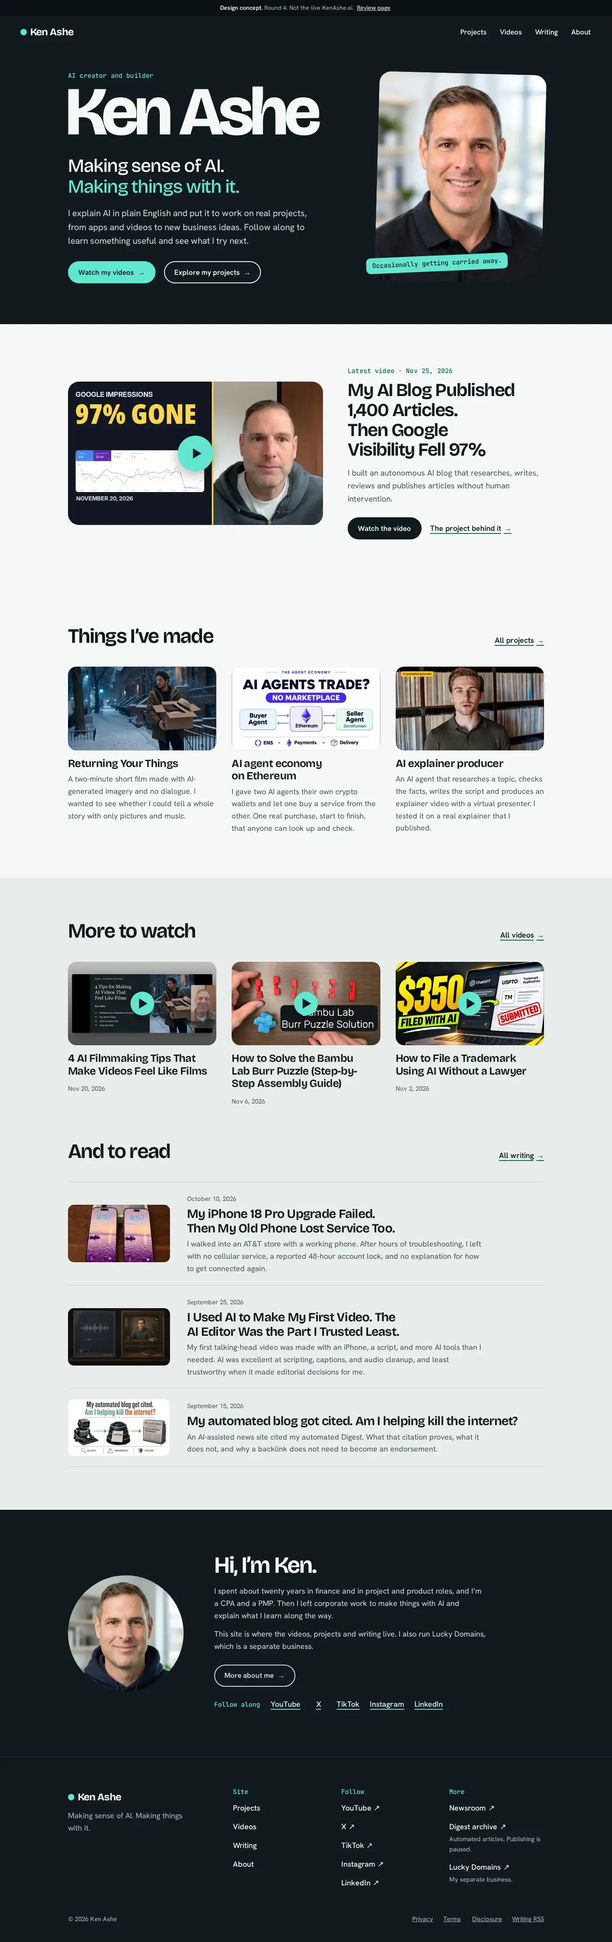
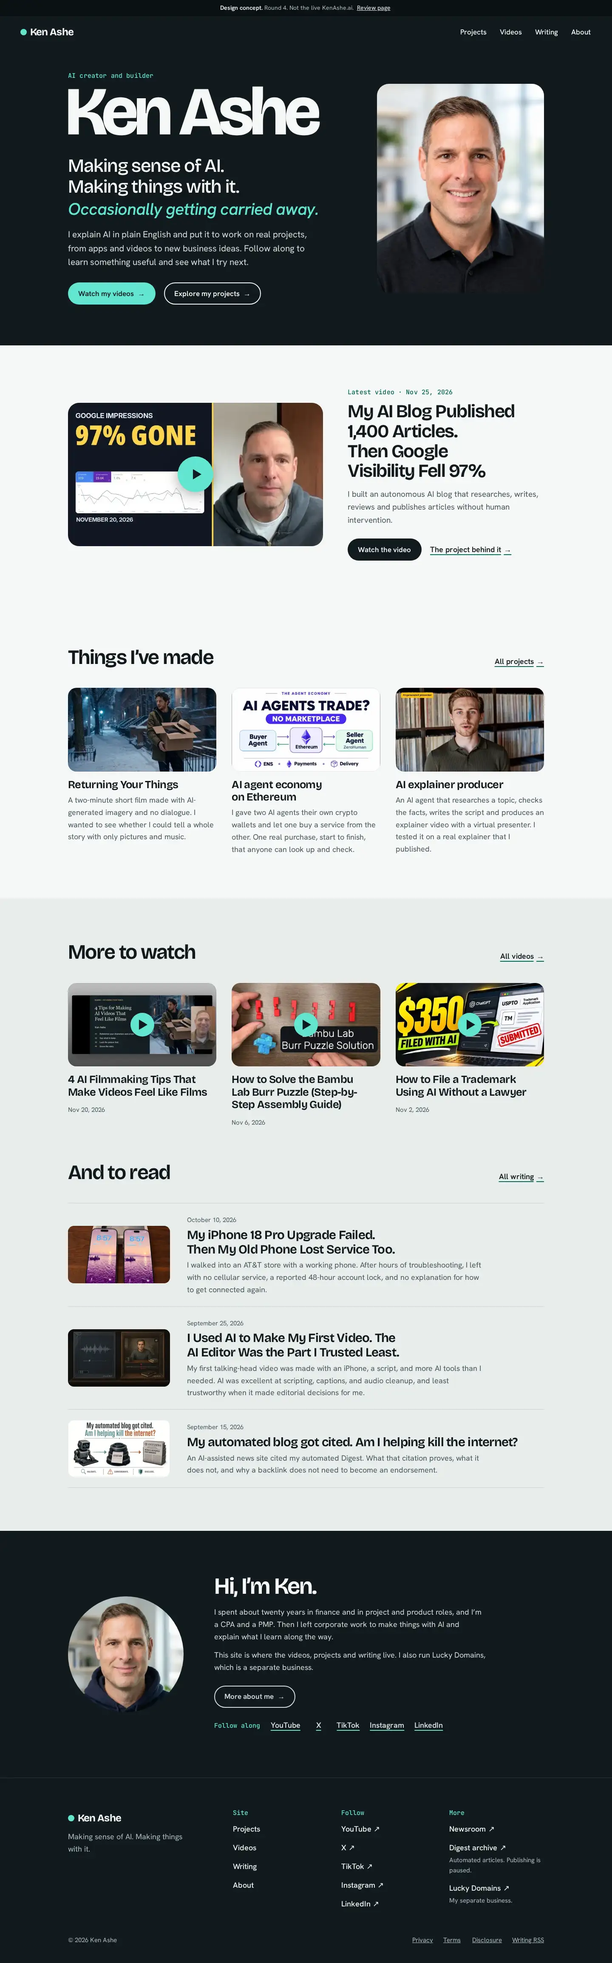
Round 4: bring the aside into the homepage headline

diff --git a/round-4/index.html b/round-4/index.html
@@ -32,10 +32,12 @@
 <figure><img src="review/screens/home-tablet.webp" alt="Homepage on a tablet" width="820" height="1180" loading="lazy"><figcaption>Tablet, 820 pixels wide (Chromium)</figcaption></figure></div>
 <div id="handoff"><p>A new direction for KenAshe.ai, built as a working prototype in <code>round-4/</code>. It is a design concept: it is not the live site, production was only read, and Rounds 1 to 3 are unchanged in the same repository.</p>
 <h3>The design in brief</h3>
-<ul><li><strong>Your name is the identity.</strong> "Ken Ashe" is set very large in real text, with your photograph beside it, the approved headline and introduction word for word, and the two actions: <em>Watch my videos</em> goes to the video archive, <em>Explore my projects</em> goes to the project index.</li><li><strong>One personality detail.</strong> "Occasionally getting carried away." appears once, as a small tilted note on your photograph. It is not repeated anywhere else.</li><li><strong>Four navigation items</strong>, each a plain link: Projects, Videos, Writing, About. Your name goes home.</li><li><strong>A short homepage in five parts:</strong> introduction, one featured piece, three projects, a few things to watch and read, a short personal note with follow links. Nothing appears twice, and the same subject is not shown in two forms (a project and its own video, for example).</li><li><strong>Colour from your YouTube banner:</strong> deep graphite for the introduction, the personal note and the footer; soft white for everything you read; mint as the one accent. On light surfaces the mint is darkened to a teal so text links stay readable.</li><li><strong>Type:</strong> Bricolage Grotesque for your name and headings, Hanken Grotesk for reading, JetBrains Mono for a few small labels. All three are already fonts the live site ships.</li><li><strong>No Universe, no status panels, no counters, no decorative controls.</strong> Technical evidence lives on the project pages, in a section called "Explore further" at the end.</li><li><strong>The Digest</strong> is out of the navigation and off the homepage. The footer links to its archive and says "Automated articles. Publishing is paused." That sentence is read from the pipeline's real state, not typed in.</li></ul>
-<h3>The one distinctive interaction</h3>
+<ul><li><strong>Your name is the identity.</strong> "Ken Ashe" is set very large in real text, with your photograph beside it, the approved headline and introduction word for word, and the two actions: <em>Watch my videos</em> goes to the video archive, <em>Explore my projects</em> goes to the project index.</li><li><strong>One personality detail, in the headline.</strong> "Occasionally getting carried away." follows the first two sentences as the third line of the same thought. The photograph has no caption or hover effect.</li><li><strong>Four navigation items</strong>, each a plain link: Projects, Videos, Writing, About. Your name goes home.</li><li><strong>A short homepage in five parts:</strong> introduction, one featured piece, three projects, a few things to watch and read, a short personal note with follow links. Nothing appears twice, and the same subject is not shown in two forms (a project and its own video, for example).</li><li><strong>Colour from your YouTube banner:</strong> deep graphite for the introduction, the personal note and the footer; soft white for everything you read; mint as the one accent. On light surfaces the mint is darkened to a teal so text links stay readable.</li><li><strong>Type:</strong> Bricolage Grotesque for your name and headings, Hanken Grotesk for reading, JetBrains Mono for a few small labels. All three are already fonts the live site ships.</li><li><strong>No Universe, no status panels, no counters, no decorative controls.</strong> Technical evidence lives on the project pages, in a section called "Explore further" at the end.</li><li><strong>The Digest</strong> is out of the navigation and off the homepage. The footer links to its archive and says "Automated articles. Publishing is paused." That sentence is read from the pipeline's real state, not typed in.</li></ul>
+<h3>Motion on the homepage</h3>
+<p>The final line of the headline settles upward by four pixels once as the page opens, over 360 milliseconds. It is readable from the first frame. The rest of the hero stays still, with no looping effects or scroll-triggered reveals. The line stays completely still when reduced motion is enabled.</p>
+<h3>The signature navigation interaction</h3>
 <p>When someone opens a project or an essay, <strong>its picture travels from the card into the opening of the page</strong>, and travels back when they return. It works from the homepage, the indexes, "next project" links and related items.</p>
-<ul><li>The links are ordinary links. The effect is the browser's own page-to-page transition, switched on by two lines of CSS, so there is nothing to break.</li><li>Keyboard and touch get the same thing, because it is triggered by navigation, not by the mouse.</li><li>With reduced motion switched on, pages change instantly.</li><li>Browsers that do not support it (Firefox today) simply load the page.</li><li><strong>No setup per item.</strong> Every picture is named from the item's own record. A new project gets the transition by existing. A project with no picture gets a title card drawn from its title, and that travels too.</li></ul>
+<ul><li>The links are ordinary links. The effect uses the browser's own page-to-page transition; the links also work without it.</li><li>Keyboard and touch get the same thing, because it is triggered by navigation, not by the mouse.</li><li>With reduced motion switched on, pages change instantly.</li><li>Browsers that do not support it (Firefox today) simply load the page.</li><li><strong>No setup per item.</strong> Every picture is named from the item's own record. A new project gets the transition by existing. A project with no picture gets a title card drawn from its title, and that travels too.</li></ul>
 <h3>What you do to update the site</h3>
 <div class="tbl"><table><thead><tr><th>Content or action</th><th>What I do</th><th>What updates automatically</th><th>When it updates</th><th>Demonstrated or proposed</th></tr></thead><tbody><tr><td>Publish a video</td><td>Upload it to YouTube. Nothing on the website.</td><td>Video archive (as the latest video); homepage feature, unless you have chosen one; "More to watch"; its thumbnail; a link to the project if the description contains that project's kenashe.ai address</td><td>At the next scheduled check (every 30 minutes) plus the normal site build, or straight away with the "Run workflow" button</td><td>The sync script is <strong>demonstrated</strong>: tested, and run for real against your channel feed. The schedule that runs it is <strong>proposed and not installed</strong>.</td></tr><tr><td>Add a project</td><td>Add one record to the project list (<code>src/data/builds.ts</code>). Add a page file if it deserves a write-up.</td><td>Project index; "next project" links; the homepage three, once it has a picture or you choose it; the picture transition</td><td>Next site build after you save (a few minutes)</td><td><strong>Demonstrated</strong> in the prototype. The production wiring is <strong>proposed</strong>.</td></tr><tr><td>Write an article</td><td>The workflow you use today: a record in <code>src/data/writing.ts</code> and the essay page.</td><td>Writing index; homepage "And to read"; "read next" links</td><td>Next site build</td><td><strong>Demonstrated</strong> in the prototype. Your existing workflow is unchanged.</td></tr><tr><td>Change the homepage feature</td><td>Change one line, <code>featured</code>, in the homepage settings file.</td><td>The featured piece. The other homepage sections adjust so nothing repeats.</td><td>Next site build</td><td><strong>Demonstrated</strong>. The settings file in production (<code>src/data/home.ts</code>) is <strong>proposed</strong>.</td></tr><tr><td>Leave the feature alone</td><td>Nothing.</td><td>Your newest full-length video is featured.</td><td>With each new video</td><td><strong>Demonstrated</strong></td></tr><tr><td>Correct a title or thumbnail</td><td>Project or essay: fix it in its record. Video: fix it on YouTube, or add one line under <code>corrections</code> in the settings file.</td><td>Every place the item appears</td><td>Next site build or sync</td><td><strong>Demonstrated</strong> (automated test)</td></tr><tr><td>Hide an item from featured areas</td><td>Add its id to <code>hide</code> in the settings file.</td><td>It leaves the homepage and featured spots. Its page and its archive entry stay.</td><td>Next site build</td><td><strong>Demonstrated</strong></td></tr><tr><td>The Digest</td><td>Nothing. It stays paused.</td><td>The footer wording follows the pipeline's state.</td><td>n/a</td><td><strong>Demonstrated</strong>. No automation was changed.</td></tr></tbody></table></div>
 <p>A recorded run of all of this is on the demonstration page (<code>round-4/demo/</code>). It applies each update to a separate copy of the site and lists exactly which pages and sections changed. The example entries exist only there.</p>
@@ -48,7 +50,7 @@
 <p>Project and essay page bodies are your own published words, copied from the live site unchanged.</p>
 <h3>What was checked</h3>
 <p>All 26 prototype pages, the demonstration pages and this review page were loaded automatically at 320, 390, 820 and 1440 pixels wide in headless Chromium 148, and at 390 and 1440 in headless Firefox 150.</p>
-<ul><li>No horizontal overflow at any width.</li><li>Smallest text anywhere is 14 px; body text is 17 to 20 px. Every text and background pair meets WCAG AA contrast.</li><li>No console errors, no failed requests, no missing images, no dead internal links.</li><li>Every tab stop shows a visible focus ring. Controls are at least 44 px on phones.</li><li>With JavaScript off, every page has all of its content and navigation. Video pictures are plain links to YouTube.</li><li>With every outside service blocked, every page still renders completely. No page contacts any outside service until someone presses play.</li><li>With reduced motion on, nothing animates and page changes are instant.</li><li>Homepage: about 5 desktop screens and 7 phone screens tall; about 450 KB on first load including fonts.</li><li>The transition was confirmed in Chromium by mouse and by keyboard, forwards and back. Firefox navigated normally without it, as designed.</li><li>14 automated tests pass (<code>node --test round-4/tools/site.test.mjs</code>): four for the video sync, ten for the site.</li></ul>
+<ul><li>No horizontal overflow at any width.</li><li>Smallest text anywhere is 14 px; body text is 17 to 20 px. Every text and background pair meets WCAG AA contrast.</li><li>No console errors, no failed requests, no missing images, no dead internal links.</li><li>Every tab stop shows a visible focus ring. Controls are at least 44 px on phones.</li><li>With JavaScript off, every page has all of its content and navigation. Video pictures are plain links to YouTube.</li><li>With every outside service blocked, every page still renders completely. No page contacts any outside service until someone presses play.</li><li>With reduced motion on, nothing animates and page changes are instant.</li><li>Homepage: about 5 desktop screens and 7 phone screens tall; about 490 KB on first load including fonts.</li><li>The transition was confirmed in Chromium by mouse and by keyboard, forwards and back. Firefox navigated normally without it, as designed.</li><li>14 automated tests pass (<code>node --test round-4/tools/site.test.mjs</code>): four for the video sync, ten for the site.</li></ul>
 <h4>Not verified</h4>
 <ul><li><strong>Safari and iOS.</strong> Safari's engine cannot run in my environment. Safari 18.2 and later support this kind of page transition, but I have not seen it there. Please try it on your iPhone and Mac.</li><li><strong>Real phones and real touch.</strong> Touch was emulated.</li><li><strong>Screen readers.</strong> Structure, labels and focus order were checked by script; no screen reader was run.</li><li><strong>Actual YouTube playback.</strong> The player loads on request and falls back to a YouTube link; I did not confirm a video plays inside the embedded player.</li><li><strong>The scheduled workflow</strong> has never run, because it is not installed.</li></ul>
 <h3>Known limits</h3>
@@ -58,7 +60,7 @@
 <p>Decisions I need from you:</p>
 <ol><li>Is this the direction? If yes, which parts to change before going further.</li><li>The draft wording above.</li><li>Whether to update the public identity record ("AI application builder") to the new positioning, everywhere at once.</li><li>Whether Newsroom moves to the footer, as shown.</li><li>Whether to go ahead with the preview build.</li></ol></div>
 <h2 id="qa">Automated checks, page by page</h2>
-<div class="tbl" tabindex="0" role="region" aria-label="Checks per page"><table><thead><tr><th>Page</th><th>Result</th><th>First load</th><th>Screens tall, desktop / phone</th><th>Smallest text</th><th>Sideways scroll</th><th>Errors</th><th>JavaScript off</th><th>Outside services blocked</th><th>Keyboard focus</th><th>Firefox</th></tr></thead><tbody><tr><td><a href="site/">site/</a></td><td>Pass</td><td>451 KB</td><td>5.1 / 7.3</td><td>14 px</td><td>none</td><td>0</td><td>complete</td><td>complete</td><td>ok</td><td>ok</td></tr><tr><td><a href="site/about/">site/about/</a></td><td>Pass</td><td>267 KB</td><td>4.5 / 6.2</td><td>14 px</td><td>none</td><td>0</td><td>complete</td><td>complete</td><td>ok</td><td>ok</td></tr><tr><td><a href="site/building/">site/building/</a></td><td>Pass</td><td>387 KB</td><td>5.4 / 8.7</td><td>14 px</td><td>none</td><td>0</td><td>complete</td><td>complete</td><td>ok</td><td>ok</td></tr><tr><td><a href="site/building/ai-agent-economy/">site/building/ai-agent-economy/</a></td><td>Pass</td><td>288 KB</td><td>11.4 / 15.4</td><td>14 px</td><td>none</td><td>0</td><td>complete</td><td>complete</td><td>ok</td><td>ok</td></tr><tr><td><a href="site/building/ai-explainer-producer/">site/building/ai-explainer-producer/</a></td><td>Pass</td><td>324 KB</td><td>12.1 / 14.7</td><td>14 px</td><td>none</td><td>0</td><td>complete</td><td>complete</td><td>ok</td><td>ok</td></tr><tr><td><a href="site/building/ai-ugc-video-lab/">site/building/ai-ugc-video-lab/</a></td><td>Pass</td><td>281 KB</td><td>10.8 / 14.5</td><td>14 px</td><td>none</td><td>0</td><td>complete</td><td>complete</td><td>ok</td><td>ok</td></tr><tr><td><a href="site/building/ai-werewolf/">site/building/ai-werewolf/</a></td><td>Pass</td><td>243 KB</td><td>8.0 / 11.0</td><td>14 px</td><td>none</td><td>0</td><td>complete</td><td>complete</td><td>ok</td><td>ok</td></tr><tr><td><a href="site/building/autonomous-ai-blog/">site/building/autonomous-ai-blog/</a></td><td>Pass</td><td>285 KB</td><td>12.1 / 16.9</td><td>14 px</td><td>none</td><td>0</td><td>complete</td><td>complete</td><td>ok</td><td>ok</td></tr><tr><td><a href="site/building/autonomous-seo-agent/">site/building/autonomous-seo-agent/</a></td><td>Pass</td><td>319 KB</td><td>6.2 / 7.4</td><td>14 px</td><td>none</td><td>0</td><td>complete</td><td>complete</td><td>ok</td><td>ok</td></tr><tr><td><a href="site/building/rebuilding-the-image-pipeline/">site/building/rebuilding-the-image-pipeline/</a></td><td>Pass</td><td>247 KB</td><td>15.7 / 20.1</td><td>14 px</td><td>none</td><td>0</td><td>complete</td><td>complete</td><td>ok</td><td>ok</td></tr><tr><td><a href="site/building/returning-your-things/">site/building/returning-your-things/</a></td><td>Pass</td><td>367 KB</td><td>4.1 / 4.7</td><td>14 px</td><td>none</td><td>0</td><td>complete</td><td>complete</td><td>ok</td><td>ok</td></tr><tr><td><a href="site/building/sir-pitches-a-lot/">site/building/sir-pitches-a-lot/</a></td><td>Pass</td><td>240 KB</td><td>7.1 / 9.5</td><td>14 px</td><td>none</td><td>0</td><td>complete</td><td>complete</td><td>ok</td><td>ok</td></tr><tr><td><a href="site/building/vetstack/">site/building/vetstack/</a></td><td>Pass</td><td>240 KB</td><td>7.1 / 9.0</td><td>14 px</td><td>none</td><td>0</td><td>complete</td><td>complete</td><td>ok</td><td>ok</td></tr><tr><td><a href="site/building/x-article-toolkit/">site/building/x-article-toolkit/</a></td><td>Pass</td><td>246 KB</td><td>10.3 / 14.2</td><td>14 px</td><td>none</td><td>0</td><td>complete</td><td>complete</td><td>ok</td><td>ok</td></tr><tr><td><a href="site/building/zerohuman/">site/building/zerohuman/</a></td><td>Pass</td><td>248 KB</td><td>10.4 / 14.1</td><td>14 px</td><td>none</td><td>0</td><td>complete</td><td>complete</td><td>ok</td><td>ok</td></tr><tr><td><a href="site/videos/">site/videos/</a></td><td>Pass</td><td>455 KB</td><td>4.4 / 5.6</td><td>14 px</td><td>none</td><td>0</td><td>complete</td><td>complete</td><td>ok</td><td>ok</td></tr><tr><td><a href="site/writing/">site/writing/</a></td><td>Pass</td><td>394 KB</td><td>3.2 / 3.4</td><td>14 px</td><td>none</td><td>0</td><td>complete</td><td>complete</td><td>ok</td><td>ok</td></tr><tr><td><a href="site/writing/4-tips-for-making-ai-videos-that-feel-like-films/">site/writing/4-tips-for-making-ai-videos-that-feel-like-films/</a></td><td>Pass</td><td>424 KB</td><td>8.1 / 8.5</td><td>14 px</td><td>none</td><td>0</td><td>complete</td><td>complete</td><td>ok</td><td>ok</td></tr><tr><td><a href="site/writing/ai-agents-reasoning-from-events-that-never-happened/">site/writing/ai-agents-reasoning-from-events-that-never-happened/</a></td><td>Pass</td><td>389 KB</td><td>15.0 / 19.7</td><td>14 px</td><td>none</td><td>0</td><td>complete</td><td>complete</td><td>ok</td><td>ok</td></tr><tr><td><a href="site/writing/ai-editor-trusted-least/">site/writing/ai-editor-trusted-least/</a></td><td>Pass</td><td>271 KB</td><td>10.8 / 12.4</td><td>14 px</td><td>none</td><td>0</td><td>complete</td><td>complete</td><td>ok</td><td>ok</td></tr><tr><td><a href="site/writing/ashe-family-coat-of-arms/">site/writing/ashe-family-coat-of-arms/</a></td><td>Pass</td><td>439 KB</td><td>10.1 / 10.2</td><td>14 px</td><td>none</td><td>0</td><td>complete</td><td>complete</td><td>ok</td><td>ok</td></tr><tr><td><a href="site/writing/bambu-lab-burr-puzzle-solution/">site/writing/bambu-lab-burr-puzzle-solution/</a></td><td>Pass</td><td>448 KB</td><td>5.8 / 6.4</td><td>14 px</td><td>none</td><td>0</td><td>complete</td><td>complete</td><td>ok</td><td>ok</td></tr><tr><td><a href="site/writing/iphone-18-pro-att-activation-failure/">site/writing/iphone-18-pro-att-activation-failure/</a></td><td>Pass</td><td>398 KB</td><td>11.8 / 14.5</td><td>14 px</td><td>none</td><td>0</td><td>complete</td><td>complete</td><td>ok</td><td>ok</td></tr><tr><td><a href="site/writing/my-automated-blog-got-cited/">site/writing/my-automated-blog-got-cited/</a></td><td>Pass</td><td>346 KB</td><td>8.2 / 10.9</td><td>14 px</td><td>none</td><td>0</td><td>complete</td><td>complete</td><td>ok</td><td>ok</td></tr><tr><td><a href="site/writing/the-digest-is-the-system/">site/writing/the-digest-is-the-system/</a></td><td>Pass</td><td>347 KB</td><td>4.3 / 5.6</td><td>14 px</td><td>none</td><td>0</td><td>complete</td><td>complete</td><td>ok</td><td>ok</td></tr><tr><td><a href="site/writing/you-can-use-ai-to-learn-almost-anything-even-ai/">site/writing/you-can-use-ai-to-learn-almost-anything-even-ai/</a></td><td>Pass</td><td>296 KB</td><td>5.9 / 6.5</td><td>14 px</td><td>none</td><td>0</td><td>complete</td><td>complete</td><td>ok</td><td>ok</td></tr><tr><td><a href="./">review page</a></td><td>Pass</td><td>728 KB</td><td>20.2 / 28.1</td><td>14 px</td><td>none</td><td>0</td><td>complete</td><td>complete</td><td>ok</td><td>ok</td></tr><tr><td><a href="demo/">demo/</a></td><td>Pass</td><td>234 KB</td><td>3.3 / 4.9</td><td>14 px</td><td>none</td><td>0</td><td>complete</td><td>complete</td><td>ok</td><td>ok</td></tr><tr><td><a href="demo/site/">demo/site/</a></td><td>Pass</td><td>419 KB</td><td>5.0 / 7.2</td><td>14 px</td><td>none</td><td>0</td><td>complete</td><td>complete</td><td>ok</td><td>ok</td></tr><tr><td><a href="demo/site/building/example-recipe-card-maker/">demo/site/building/example-recipe-card-maker/</a></td><td>Pass</td><td>236 KB</td><td>3.0 / 3.3</td><td>14 px</td><td>none</td><td>0</td><td>complete</td><td>complete</td><td>ok</td><td>ok</td></tr><tr><td><a href="demo/site/videos/">demo/site/videos/</a></td><td>Pass</td><td>446 KB</td><td>4.3 / 5.8</td><td>14 px</td><td>none</td><td>0</td><td>complete</td><td>complete</td><td>ok</td><td>ok</td></tr></tbody></table></div>
+<div class="tbl" tabindex="0" role="region" aria-label="Checks per page"><table><thead><tr><th>Page</th><th>Result</th><th>First load</th><th>Screens tall, desktop / phone</th><th>Smallest text</th><th>Sideways scroll</th><th>Errors</th><th>JavaScript off</th><th>Outside services blocked</th><th>Keyboard focus</th><th>Firefox</th></tr></thead><tbody><tr><td><a href="site/">site/</a></td><td>Pass</td><td>486 KB</td><td>5.1 / 7.3</td><td>14 px</td><td>none</td><td>0</td><td>complete</td><td>complete</td><td>ok</td><td>ok</td></tr><tr><td><a href="site/about/">site/about/</a></td><td>Pass</td><td>267 KB</td><td>4.5 / 6.2</td><td>14 px</td><td>none</td><td>0</td><td>complete</td><td>complete</td><td>ok</td><td>ok</td></tr><tr><td><a href="site/building/">site/building/</a></td><td>Pass</td><td>387 KB</td><td>5.4 / 8.7</td><td>14 px</td><td>none</td><td>0</td><td>complete</td><td>complete</td><td>ok</td><td>ok</td></tr><tr><td><a href="site/building/ai-agent-economy/">site/building/ai-agent-economy/</a></td><td>Pass</td><td>288 KB</td><td>11.4 / 15.4</td><td>14 px</td><td>none</td><td>0</td><td>complete</td><td>complete</td><td>ok</td><td>ok</td></tr><tr><td><a href="site/building/ai-explainer-producer/">site/building/ai-explainer-producer/</a></td><td>Pass</td><td>324 KB</td><td>12.1 / 14.7</td><td>14 px</td><td>none</td><td>0</td><td>complete</td><td>complete</td><td>ok</td><td>ok</td></tr><tr><td><a href="site/building/ai-ugc-video-lab/">site/building/ai-ugc-video-lab/</a></td><td>Pass</td><td>281 KB</td><td>10.8 / 14.5</td><td>14 px</td><td>none</td><td>0</td><td>complete</td><td>complete</td><td>ok</td><td>ok</td></tr><tr><td><a href="site/building/ai-werewolf/">site/building/ai-werewolf/</a></td><td>Pass</td><td>243 KB</td><td>8.0 / 11.0</td><td>14 px</td><td>none</td><td>0</td><td>complete</td><td>complete</td><td>ok</td><td>ok</td></tr><tr><td><a href="site/building/autonomous-ai-blog/">site/building/autonomous-ai-blog/</a></td><td>Pass</td><td>285 KB</td><td>12.1 / 16.9</td><td>14 px</td><td>none</td><td>0</td><td>complete</td><td>complete</td><td>ok</td><td>ok</td></tr><tr><td><a href="site/building/autonomous-seo-agent/">site/building/autonomous-seo-agent/</a></td><td>Pass</td><td>319 KB</td><td>6.2 / 7.4</td><td>14 px</td><td>none</td><td>0</td><td>complete</td><td>complete</td><td>ok</td><td>ok</td></tr><tr><td><a href="site/building/rebuilding-the-image-pipeline/">site/building/rebuilding-the-image-pipeline/</a></td><td>Pass</td><td>247 KB</td><td>15.7 / 20.1</td><td>14 px</td><td>none</td><td>0</td><td>complete</td><td>complete</td><td>ok</td><td>ok</td></tr><tr><td><a href="site/building/returning-your-things/">site/building/returning-your-things/</a></td><td>Pass</td><td>367 KB</td><td>4.1 / 4.7</td><td>14 px</td><td>none</td><td>0</td><td>complete</td><td>complete</td><td>ok</td><td>ok</td></tr><tr><td><a href="site/building/sir-pitches-a-lot/">site/building/sir-pitches-a-lot/</a></td><td>Pass</td><td>240 KB</td><td>7.1 / 9.5</td><td>14 px</td><td>none</td><td>0</td><td>complete</td><td>complete</td><td>ok</td><td>ok</td></tr><tr><td><a href="site/building/vetstack/">site/building/vetstack/</a></td><td>Pass</td><td>240 KB</td><td>7.1 / 9.0</td><td>14 px</td><td>none</td><td>0</td><td>complete</td><td>complete</td><td>ok</td><td>ok</td></tr><tr><td><a href="site/building/x-article-toolkit/">site/building/x-article-toolkit/</a></td><td>Pass</td><td>246 KB</td><td>10.3 / 14.2</td><td>14 px</td><td>none</td><td>0</td><td>complete</td><td>complete</td><td>ok</td><td>ok</td></tr><tr><td><a href="site/building/zerohuman/">site/building/zerohuman/</a></td><td>Pass</td><td>248 KB</td><td>10.4 / 14.1</td><td>14 px</td><td>none</td><td>0</td><td>complete</td><td>complete</td><td>ok</td><td>ok</td></tr><tr><td><a href="site/videos/">site/videos/</a></td><td>Pass</td><td>455 KB</td><td>4.4 / 5.6</td><td>14 px</td><td>none</td><td>0</td><td>complete</td><td>complete</td><td>ok</td><td>ok</td></tr><tr><td><a href="site/writing/">site/writing/</a></td><td>Pass</td><td>394 KB</td><td>3.2 / 3.4</td><td>14 px</td><td>none</td><td>0</td><td>complete</td><td>complete</td><td>ok</td><td>ok</td></tr><tr><td><a href="site/writing/4-tips-for-making-ai-videos-that-feel-like-films/">site/writing/4-tips-for-making-ai-videos-that-feel-like-films/</a></td><td>Pass</td><td>424 KB</td><td>8.1 / 8.5</td><td>14 px</td><td>none</td><td>0</td><td>complete</td><td>complete</td><td>ok</td><td>ok</td></tr><tr><td><a href="site/writing/ai-agents-reasoning-from-events-that-never-happened/">site/writing/ai-agents-reasoning-from-events-that-never-happened/</a></td><td>Pass</td><td>389 KB</td><td>15.0 / 19.7</td><td>14 px</td><td>none</td><td>0</td><td>complete</td><td>complete</td><td>ok</td><td>ok</td></tr><tr><td><a href="site/writing/ai-editor-trusted-least/">site/writing/ai-editor-trusted-least/</a></td><td>Pass</td><td>271 KB</td><td>10.8 / 12.4</td><td>14 px</td><td>none</td><td>0</td><td>complete</td><td>complete</td><td>ok</td><td>ok</td></tr><tr><td><a href="site/writing/ashe-family-coat-of-arms/">site/writing/ashe-family-coat-of-arms/</a></td><td>Pass</td><td>439 KB</td><td>10.1 / 10.2</td><td>14 px</td><td>none</td><td>0</td><td>complete</td><td>complete</td><td>ok</td><td>ok</td></tr><tr><td><a href="site/writing/bambu-lab-burr-puzzle-solution/">site/writing/bambu-lab-burr-puzzle-solution/</a></td><td>Pass</td><td>448 KB</td><td>5.8 / 6.4</td><td>14 px</td><td>none</td><td>0</td><td>complete</td><td>complete</td><td>ok</td><td>ok</td></tr><tr><td><a href="site/writing/iphone-18-pro-att-activation-failure/">site/writing/iphone-18-pro-att-activation-failure/</a></td><td>Pass</td><td>398 KB</td><td>11.8 / 14.5</td><td>14 px</td><td>none</td><td>0</td><td>complete</td><td>complete</td><td>ok</td><td>ok</td></tr><tr><td><a href="site/writing/my-automated-blog-got-cited/">site/writing/my-automated-blog-got-cited/</a></td><td>Pass</td><td>346 KB</td><td>8.2 / 10.9</td><td>14 px</td><td>none</td><td>0</td><td>complete</td><td>complete</td><td>ok</td><td>ok</td></tr><tr><td><a href="site/writing/the-digest-is-the-system/">site/writing/the-digest-is-the-system/</a></td><td>Pass</td><td>347 KB</td><td>4.3 / 5.6</td><td>14 px</td><td>none</td><td>0</td><td>complete</td><td>complete</td><td>ok</td><td>ok</td></tr><tr><td><a href="site/writing/you-can-use-ai-to-learn-almost-anything-even-ai/">site/writing/you-can-use-ai-to-learn-almost-anything-even-ai/</a></td><td>Pass</td><td>296 KB</td><td>5.9 / 6.5</td><td>14 px</td><td>none</td><td>0</td><td>complete</td><td>complete</td><td>ok</td><td>ok</td></tr><tr><td><a href="./">review page</a></td><td>Pass</td><td>731 KB</td><td>19.6 / 27.5</td><td>14 px</td><td>none</td><td>0</td><td>complete</td><td>complete</td><td>ok</td><td>ok</td></tr><tr><td><a href="demo/">demo/</a></td><td>Pass</td><td>234 KB</td><td>3.3 / 4.9</td><td>14 px</td><td>none</td><td>0</td><td>complete</td><td>complete</td><td>ok</td><td>ok</td></tr><tr><td><a href="demo/site/">demo/site/</a></td><td>Pass</td><td>454 KB</td><td>5.1 / 7.2</td><td>14 px</td><td>none</td><td>0</td><td>complete</td><td>complete</td><td>ok</td><td>ok</td></tr><tr><td><a href="demo/site/building/example-recipe-card-maker/">demo/site/building/example-recipe-card-maker/</a></td><td>Pass</td><td>236 KB</td><td>3.0 / 3.3</td><td>14 px</td><td>none</td><td>0</td><td>complete</td><td>complete</td><td>ok</td><td>ok</td></tr><tr><td><a href="demo/site/videos/">demo/site/videos/</a></td><td>Pass</td><td>446 KB</td><td>4.3 / 5.8</td><td>14 px</td><td>none</td><td>0</td><td>complete</td><td>complete</td><td>ok</td><td>ok</td></tr></tbody></table></div>
 <p class="rv-note">Measured on the files in this repository, served locally the way GitHub Pages serves them. First load counts text files uncompressed; GitHub Pages and Vercel compress them.</p>
 <div id="migration"><p>Nothing in this plan has been done. Production (kenashe/kenashe) was read, never changed. Reviewed at commit <code>8b35b45</code> (PR #157, merged November 26, 2026).</p>
 <h3>What production looks like today (re-checked for this round)</h3>

diff --git a/round-4/assets/site.css b/round-4/assets/site.css
@@ -70,14 +70,11 @@ a:hover>.arr{transform:translateX(3px)}
 .hero h1{font-size:clamp(4.4rem,11.2vw,11.5rem);font-weight:750;letter-spacing:-.055em;line-height:.86;margin:.35rem 0 0 -.04em;white-space:nowrap}
 .headline{font:500 clamp(1.6rem,3.1vw,2.75rem)/1.12 var(--display);letter-spacing:-.025em;margin-top:clamp(1.25rem,2.5vw,2rem)}
 .headline span{display:block}
-.headline span+span{color:var(--mint)}
+.headline .headline-aside{color:var(--mint);font-family:var(--body);font-style:italic;font-size:.9em;font-weight:550;letter-spacing:-.025em;margin-top:.14em}
 .hero .lede{margin-top:1.4rem;color:#D5DEDD}
 .hero .actions{margin-top:2rem}
-.hero-photo{margin:0;position:relative;justify-self:end;width:100%;max-width:25rem;transform:rotate(1.5deg);transition:transform .5s cubic-bezier(.2,.8,.2,1)}
-.hero-photo:hover{transform:rotate(0)}
+.hero-photo{margin:0;justify-self:end;width:100%;max-width:25rem}
 .hero-photo img{aspect-ratio:4/5;object-fit:cover;object-position:50% 20%;width:100%;border-radius:28px}
-.hero-photo figcaption{position:absolute;left:-1.25rem;bottom:1.5rem;background:var(--mint);color:var(--ink);font:500 .9375rem/1.3 var(--mono);padding:.55rem .85rem;border-radius:10px;transform:rotate(-4deg);max-width:calc(100% - 1rem);transition:transform .5s cubic-bezier(.2,.8,.2,1)}
-.hero-photo:hover figcaption{transform:rotate(-7deg) translateY(-4px)}
 
 /* bands */
 .band{padding:clamp(3.5rem,7vw,6.5rem) 0}
@@ -300,7 +297,9 @@ a:hover>.pic img,.player:hover .pic img{transform:scale(1.035)}
 
 /* the signature transition: a picture travels from its card into the opening of its page.
    Plain links. Browsers without cross-page view transitions simply load the page. */
+@keyframes headline-settle{from{transform:translateY(4px)}to{transform:translateY(0)}}
 @media (prefers-reduced-motion:no-preference){
+  .headline-aside{animation:headline-settle .36s cubic-bezier(.2,.7,.25,1) both}
   @view-transition{navigation:auto}
   ::view-transition-group(*){animation-duration:.45s;animation-timing-function:cubic-bezier(.3,.7,.1,1)}
   ::view-transition-old(root),::view-transition-new(root){animation-duration:.28s}
@@ -313,7 +312,7 @@ a:hover>.pic img,.player:hover .pic img{transform:scale(1.035)}
 /* tablet and phone */
 @media (max-width:900px){
   .hero-in,.about-top{grid-template-columns:minmax(0,1fr)}
-  .hero-photo{justify-self:start;max-width:min(22rem,78vw);margin-left:.75rem}
+  .hero-photo{justify-self:start;max-width:min(22rem,78vw)}
   .about-top figure{max-width:min(24rem,80vw)}
   .feature{grid-template-columns:minmax(0,1fr)}
   .grid.three{grid-template-columns:repeat(2,minmax(0,1fr))}

diff --git a/round-4/demo/site/index.html b/round-4/demo/site/index.html
@@ -32,13 +32,12 @@
     <div class="hero-text">
       <p class="eyebrow">AI creator and builder</p>
       <h1>Ken Ashe</h1>
-      <p class="headline"><span>Making sense of AI.</span> <span>Making things with it.</span></p>
+      <p class="headline"><span>Making sense of AI.</span> <span>Making things with it.</span> <span class="headline-aside">Occasionally getting carried away.</span></p>
       <p class="lede">I explain AI in plain English and put it to work on real projects, from apps and videos to new business ideas. Follow along to learn something useful and see what I try next.</p>
       <p class="actions"><a class="btn solid" href="./videos/">Watch my videos <span class="arr" aria-hidden="true">→</span></a> <a class="btn line" href="./building/">Explore my projects <span class="arr" aria-hidden="true">→</span></a></p>
     </div>
     <figure class="hero-photo">
       <img src="./../../assets/r/880/portrait/ken-black-polo-1280.webp" srcset="./../../assets/r/480/portrait/ken-black-polo-1280.webp 480w, ./../../assets/r/880/portrait/ken-black-polo-1280.webp 880w, ./../../assets/portrait/ken-black-polo-1280.webp 1280w" sizes="(min-width: 900px) 34vw, 70vw" width="1122" height="1402" alt="Ken Ashe, smiling, in a black polo shirt" fetchpriority="high" decoding="async">
-      <figcaption>Occasionally getting carried away.</figcaption>
     </figure>
   </div>
 </section>

diff --git a/round-4/site/index.html b/round-4/site/index.html
@@ -32,13 +32,12 @@
     <div class="hero-text">
       <p class="eyebrow">AI creator and builder</p>
       <h1>Ken Ashe</h1>
-      <p class="headline"><span>Making sense of AI.</span> <span>Making things with it.</span></p>
+      <p class="headline"><span>Making sense of AI.</span> <span>Making things with it.</span> <span class="headline-aside">Occasionally getting carried away.</span></p>
       <p class="lede">I explain AI in plain English and put it to work on real projects, from apps and videos to new business ideas. Follow along to learn something useful and see what I try next.</p>
       <p class="actions"><a class="btn solid" href="./videos/">Watch my videos <span class="arr" aria-hidden="true">→</span></a> <a class="btn line" href="./building/">Explore my projects <span class="arr" aria-hidden="true">→</span></a></p>
     </div>
     <figure class="hero-photo">
       <img src="./../assets/r/880/portrait/ken-black-polo-1280.webp" srcset="./../assets/r/480/portrait/ken-black-polo-1280.webp 480w, ./../assets/r/880/portrait/ken-black-polo-1280.webp 880w, ./../assets/portrait/ken-black-polo-1280.webp 1280w" sizes="(min-width: 900px) 34vw, 70vw" width="1122" height="1402" alt="Ken Ashe, smiling, in a black polo shirt" fetchpriority="high" decoding="async">
-      <figcaption>Occasionally getting carried away.</figcaption>
     </figure>
   </div>
 </section>

diff --git a/round-4/HANDOFF.md b/round-4/HANDOFF.md
@@ -8,8 +8,8 @@ live site, production was only read, and Rounds 1 to 3 are unchanged in the same
 * **Your name is the identity.** "Ken Ashe" is set very large in real text, with your photograph beside it, the
   approved headline and introduction word for word, and the two actions: *Watch my videos* goes to the video
   archive, *Explore my projects* goes to the project index.
-* **One personality detail.** "Occasionally getting carried away." appears once, as a small tilted note on your
-  photograph. It is not repeated anywhere else.
+* **One personality detail, in the headline.** "Occasionally getting carried away." follows the first two
+  sentences as the third line of the same thought. The photograph has no caption or hover effect.
 * **Four navigation items**, each a plain link: Projects, Videos, Writing, About. Your name goes home.
 * **A short homepage in five parts:** introduction, one featured piece, three projects, a few things to watch and
   read, a short personal note with follow links. Nothing appears twice, and the same subject is not shown in two
@@ -24,13 +24,18 @@ live site, production was only read, and Rounds 1 to 3 are unchanged in the same
 * **The Digest** is out of the navigation and off the homepage. The footer links to its archive and says
   "Automated articles. Publishing is paused." That sentence is read from the pipeline's real state, not typed in.
 
-## The one distinctive interaction
+## Motion on the homepage
+
+The final line of the headline settles upward by four pixels once as the page opens, over 360 milliseconds.
+It is readable from the first frame. The rest of the hero stays still, with no looping effects or scroll-triggered
+reveals. The line stays completely still when reduced motion is enabled.
+
+## The signature navigation interaction
 
 When someone opens a project or an essay, **its picture travels from the card into the opening of the page**, and
 travels back when they return. It works from the homepage, the indexes, "next project" links and related items.
 
-* The links are ordinary links. The effect is the browser's own page-to-page transition, switched on by two lines of
-  CSS, so there is nothing to break.
+* The links are ordinary links. The effect uses the browser's own page-to-page transition; the links also work without it.
 * Keyboard and touch get the same thing, because it is triggered by navigation, not by the mouse.
 * With reduced motion switched on, pages change instantly.
 * Browsers that do not support it (Firefox today) simply load the page.
@@ -92,7 +97,7 @@ and 1440 pixels wide in headless Chromium 148, and at 390 and 1440 in headless F
 * With every outside service blocked, every page still renders completely. No page contacts any outside service
   until someone presses play.
 * With reduced motion on, nothing animates and page changes are instant.
-* Homepage: about 5 desktop screens and 7 phone screens tall; about 450 KB on first load including fonts.
+* Homepage: about 5 desktop screens and 7 phone screens tall; about 490 KB on first load including fonts.
 * The transition was confirmed in Chromium by mouse and by keyboard, forwards and back. Firefox navigated normally
   without it, as designed.
 * 14 automated tests pass (`node --test round-4/tools/site.test.mjs`): four for the video sync, ten for the site.
